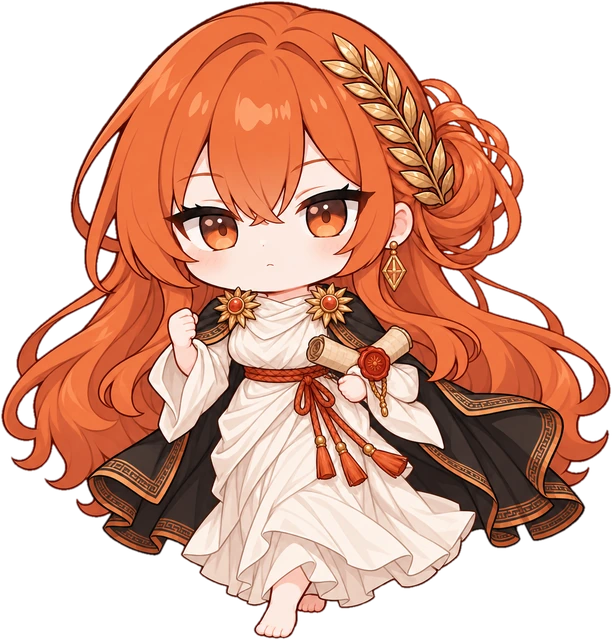
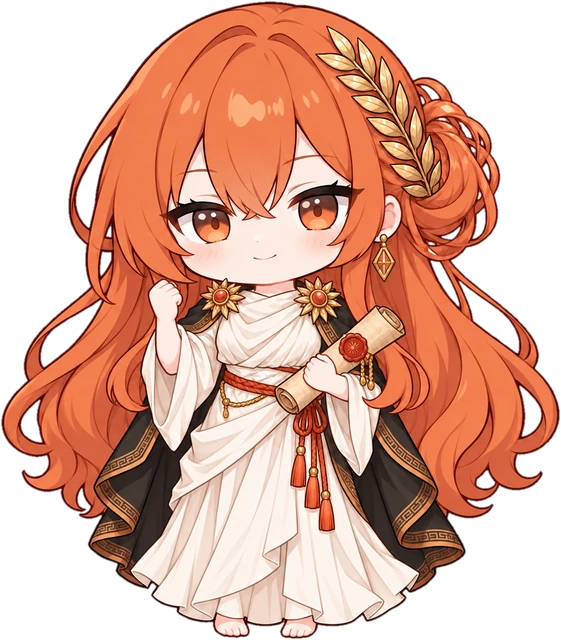
跑命令重画：圣女 Claude、毛衣 / 冬装 DeepSeek、Grok 改成原地干活（不再画成真在跑步）

diff --git a/art/任务/2026-11-重画-跑命令/任务.md b/art/任务/2026-11-重画-跑命令/任务.md
@@ -2,13 +2,13 @@
 
 running：running · 跑命令
 
-共 4 张，还要画 4 张。状态：待画 → 机检不过 / 待验收 → 通过 / 退回 → 已导入。
+共 4 张，还要画 0 张。状态：待画 → 机检不过 / 待验收 → 通过 / 退回 → 已导入。
 
 **给 Codex**：照 [art/AGENTS.md](../../AGENTS.md) 做。只画状态是「待画」「机检不过」「退回」的，按表格顺序一张一张画（成对的左边那张在前），每张单独打开它的提示词、按顺序附上附件、存到提示词里写的路径；每画完一张跑 `python3 tools/art.py check 2026-11-重画-跑命令`。
 
 | # | 角色 | 姿态 | 状态 | 提示词 | 说明 |
 |---|---|---|---|---|---|
-| 1 | claude-saint | running | 待画 | [提示词](提示词/claude-saint__running.md) |  |
-| 2 | deepseek-knit | running | 待画 | [提示词](提示词/deepseek-knit__running.md) |  |
-| 3 | grok | running | 待画 | [提示词](提示词/grok__running.md) |  |
-| 4 | deepseek-winter | running | 待画 | [提示词](提示词/deepseek-winter__running.md) |  |
+| 1 | claude-saint | running | 已导入 | [提示词](提示词/claude-saint__running.md) |  |
+| 2 | deepseek-knit | running | 已导入 | [提示词](提示词/deepseek-knit__running.md) |  |
+| 3 | grok | running | 已导入 | [提示词](提示词/grok__running.md) |  |
+| 4 | deepseek-winter | running | 已导入 | [提示词](提示词/deepseek-winter__running.md) |  |
